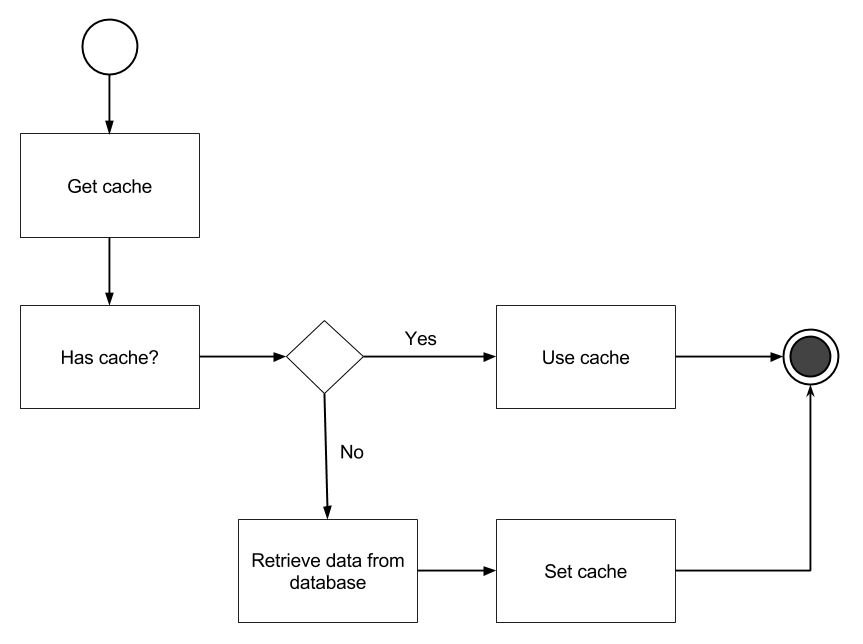
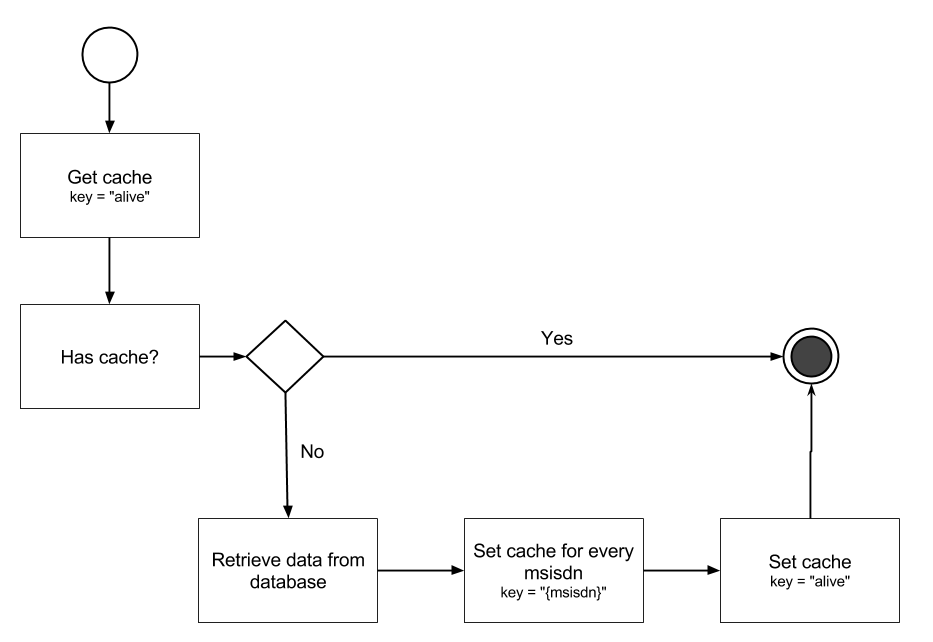
Update documentation

diff --git a/docs/source/api.rst b/docs/source/api.rst
@@ -33,12 +33,16 @@ Memcached
 Memcached is a high-performance, distributed memory object caching system intended for use in 
 speeding up dynamic web applications by alleviating database load.
 
-The Acotel Blacklist APIs use Memcached in order to improve performance:
+The Acotel Blacklist APIs use Memcached in order to improve performance.
+
+A process runs every 30 minutes checking if the cache exists. If it does not exist, then it is 
+recreated:
 
 .. image:: _static/flow_memcached.png
 
-When deleting a customer (using the Delete API or the Admin Interface), this cache is deleted
-and recreated on the next request.
+When deleting a customer (using the Delete API or the Admin Interface), only this customer is 
+removed from the cache. The same happens when creating a new customer; this new customer is added
+immediately to the cache.
 
 Actions
 =======
